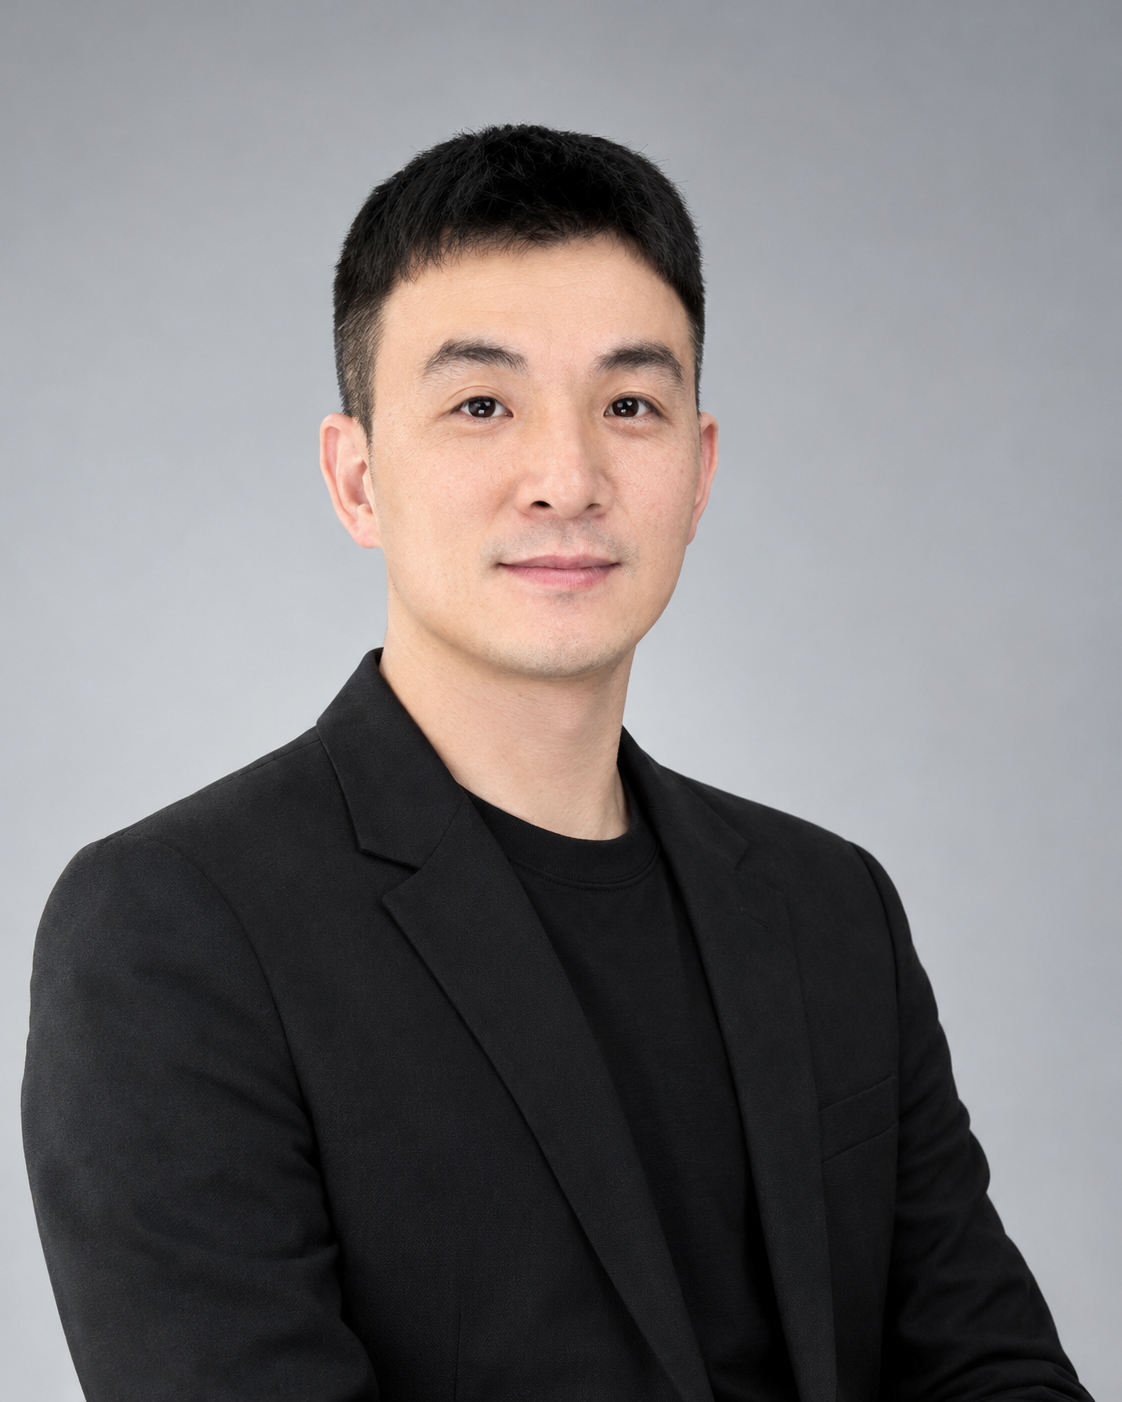
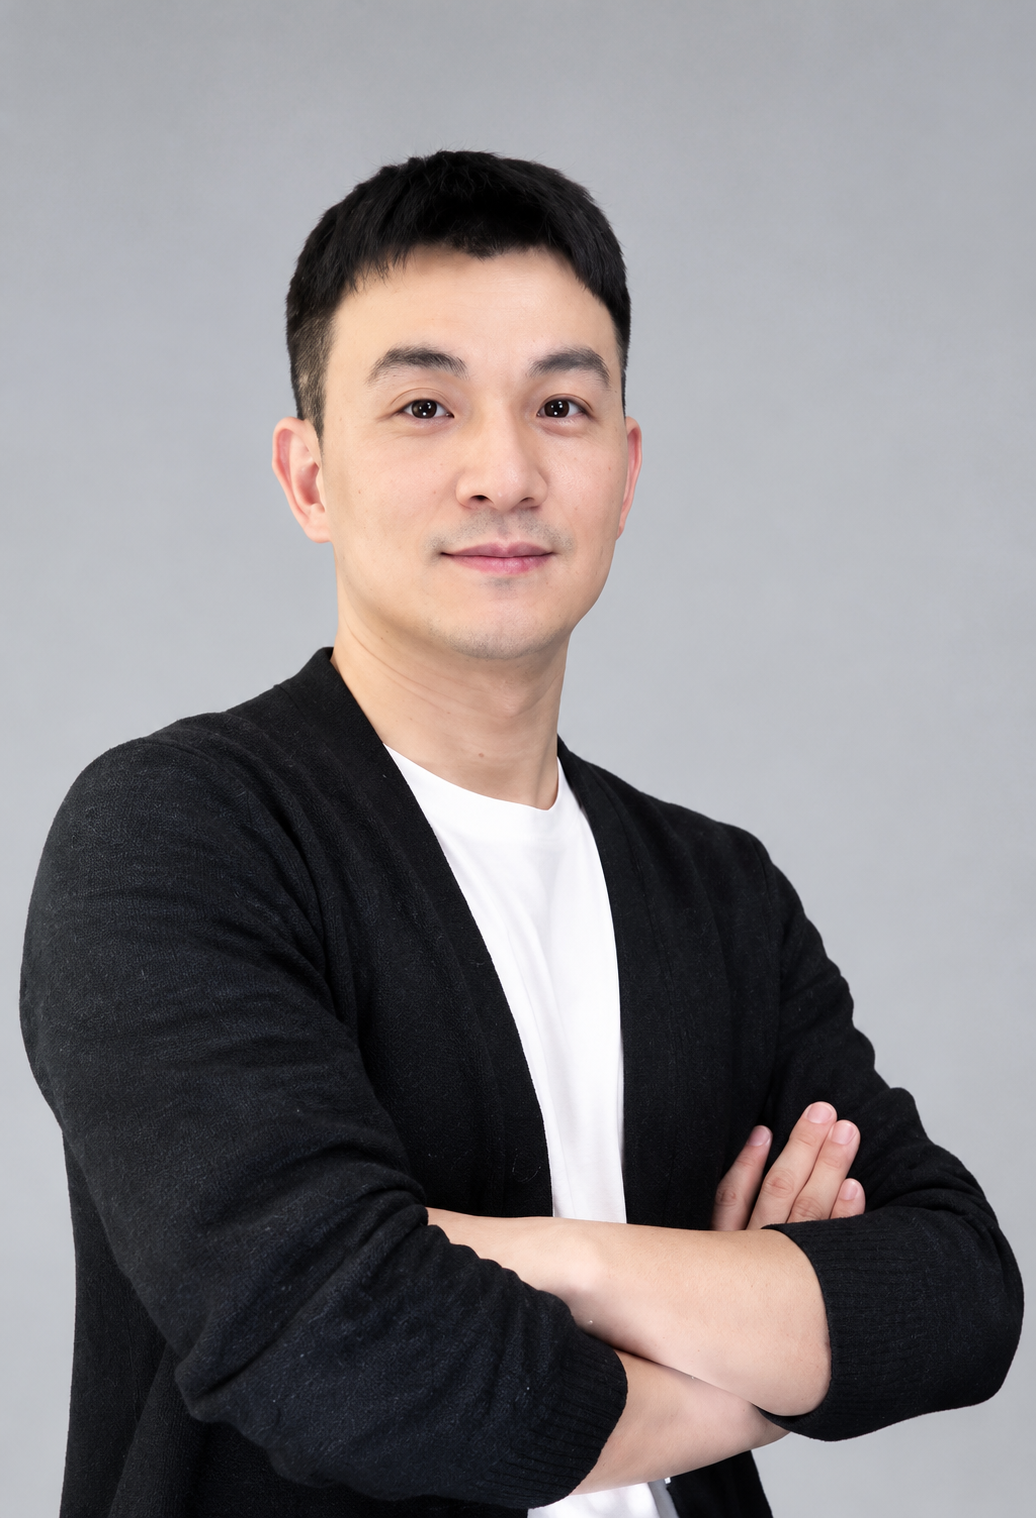
feat: 设计部5人照片替换为王秦琳/王舒淼/邢旺/林泉/王广大本人照（原图零压缩）

diff --git a/constants.ts b/constants.ts
@@ -219,21 +219,21 @@ export const CONTENT: SiteContent = {
           name: "王秦琳", 
           role: "软装设计师", roleEn: "Soft Furnishing Designer", 
           intro: "色彩与材质的碰撞，激发生活灵感。", 
-          image: "images/wangqinlin.jpg" 
+          image: "images/wangqinlin.png" 
         },
         { 
           id: "d2-m4", 
           name: "王舒淼", 
           role: "深化设计师", roleEn: "Detail Designer", 
           intro: "专注细节，将设计图纸完美落地。", 
-          image: "images/wangshumiao.jpg" 
+          image: "images/wangshumiao.png" 
         },
         { 
           id: "d2-m5", 
           name: "邢旺", 
           role: "3D渲染师", roleEn: "3D Renderer", 
           intro: "用光影还原真实的未来家园。", 
-          image: "images/xingwang.jpg" 
+          image: "images/xingwang.png" 
         },
         { 
           id: "d2-m6", 
@@ -247,7 +247,7 @@ export const CONTENT: SiteContent = {
           name: "林泉", 
           role: "设计助理", roleEn: "Design Assistant", 
           intro: "学习与成长，为设计注入新活力。", 
-          image: "images/linquan.jpg" 
+          image: "images/linquan.png" 
         }
       ]
     },
